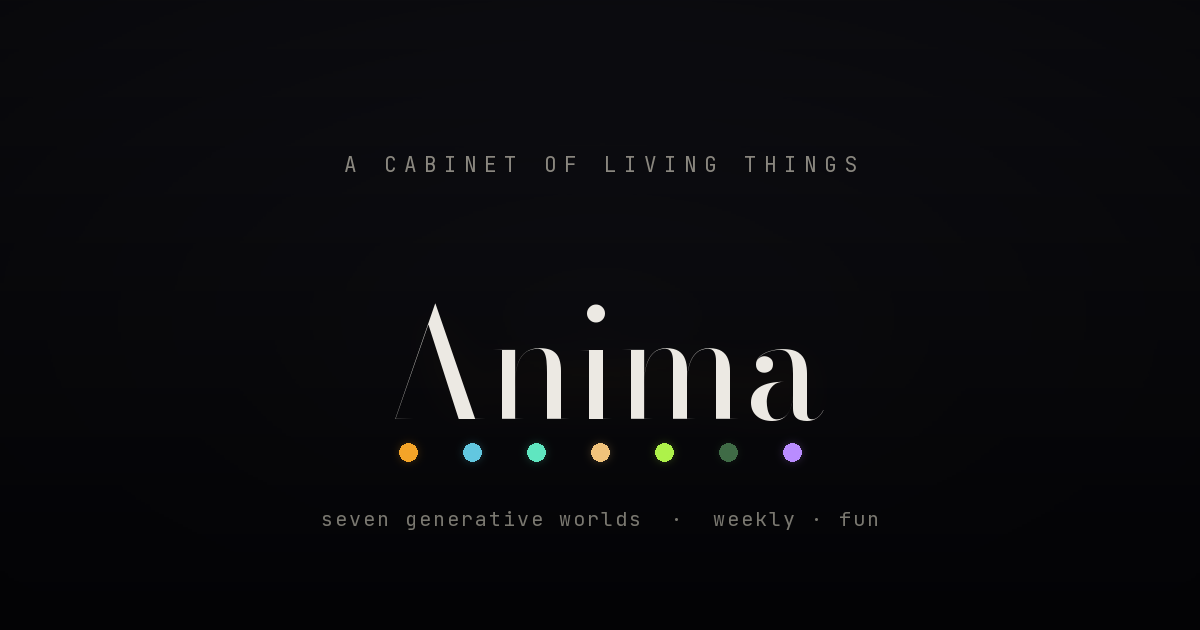
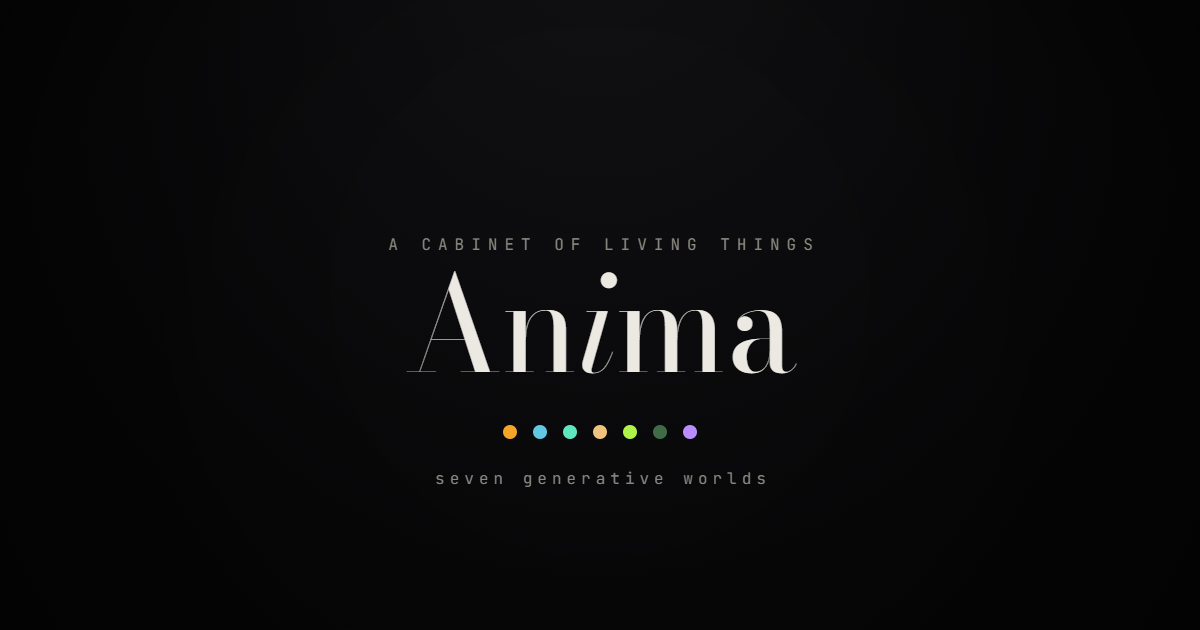
chore(brand): drop "weekly · fun" from the OG card and gallery kicker
- Regenerate og-image.png — same card (Bodoni Moda "Anima" with the
  styled italic i, the seven world-accent dots, "A CABINET OF LIVING
  THINGS"), but the subtitle is now "seven generative worlds" instead of
  "… · weekly · fun". Re-rendered at 1200×630, saved as optimised RGB
  (353KB → 90KB).
- Add tools/og-image.html — the reproducible canvas source for the card
  (the previous PNG had no source).
- Gallery kicker "weekly · fun · mmxxvi" → "anima · mmxxvi".

diff --git a/tools/og-image.html b/tools/og-image.html
@@ -1,0 +1,107 @@
+<!doctype html>
+<html lang="en">
+<head>
+<meta charset="utf-8" />
+<title>ANIMA — OG image generator (1200×630)</title>
+<!-- Reproducible source for /og-image.png. Open over a local server and
+     click "download" (or read window.__png). Re-render after rebrands. -->
+<link rel="stylesheet" href="../fonts/anima-fonts.css" />
+<style>
+  html,body{margin:0;background:#222;color:#ccc;font-family:system-ui,sans-serif;}
+  #c{display:block;margin:20px auto;box-shadow:0 10px 40px rgba(0,0,0,.5);}
+  .bar{text-align:center;padding:10px;}
+  button{font:inherit;padding:8px 16px;cursor:pointer;}
+</style>
+</head>
+<body>
+<canvas id="c" width="1200" height="630"></canvas>
+<div class="bar"><button id="dl">download og-image.png</button></div>
+<script>
+const W = 1200, H = 630, cx = W / 2;
+const c = document.getElementById("c");
+const g = c.getContext("2d");
+const DIDONE = "'Bodoni Moda', Georgia, serif";
+const MONO = "'JetBrains Mono', ui-monospace, monospace";
+// world accent colours, in cabinet order (primordia … animalcula)
+const ACCENTS = ["#f4a428", "#62c7e0", "#5fe6c0", "#f0c27b", "#aef24a", "#3f6b46", "#b98cff"];
+
+async function draw() {
+  await Promise.all([
+    document.fonts.load(`400 130px ${DIDONE}`),
+    document.fonts.load(`italic 400 130px ${DIDONE}`),
+    document.fonts.load(`400 16px ${MONO}`),
+  ]);
+  await document.fonts.ready;
+
+  // background — radial wash, matching the gallery
+  const bg = g.createRadialGradient(cx, -80, 80, cx, 200, 900);
+  bg.addColorStop(0, "#101013");
+  bg.addColorStop(0.55, "#070708");
+  bg.addColorStop(1, "#040405");
+  g.fillStyle = bg;
+  g.fillRect(0, 0, W, H);
+  // vignette
+  const vig = g.createRadialGradient(cx, H * 0.44, 220, cx, H * 0.44, 780);
+  vig.addColorStop(0, "rgba(0,0,0,0)");
+  vig.addColorStop(1, "rgba(0,0,0,0.55)");
+  g.fillStyle = vig;
+  g.fillRect(0, 0, W, H);
+
+  g.textAlign = "center";
+  g.textBaseline = "alphabetic";
+
+  // eyebrow
+  g.fillStyle = "#8a877f";
+  g.font = `400 16px ${MONO}`;
+  g.letterSpacing = "7px";
+  g.fillText("A CABINET OF LIVING THINGS", cx + 4, 250);
+  g.letterSpacing = "0px";
+
+  // wordmark — "An" + italic "i" + "ma", drawn as segments to keep the styled i
+  const wy = 372;
+  const roman = `400 132px ${DIDONE}`;
+  const ital = `italic 400 132px ${DIDONE}`;
+  g.fillStyle = "#ece9e3";
+  g.textAlign = "left";
+  g.font = roman; const wA = g.measureText("An").width;
+  g.font = ital;  const wI = g.measureText("i").width;
+  g.font = roman; const wB = g.measureText("ma").width;
+  let px = cx - (wA + wI + wB) / 2;
+  g.font = roman; g.fillText("An", px, wy); px += wA;
+  g.font = ital;  g.fillText("i", px, wy);  px += wI;
+  g.font = roman; g.fillText("ma", px, wy);
+  g.textAlign = "center";
+
+  // seven world dots
+  const dy = 432, r = 7, gap = 30;
+  let dx = cx - ((ACCENTS.length - 1) * gap) / 2;
+  for (const col of ACCENTS) {
+    g.beginPath();
+    g.arc(dx, dy, r, 0, Math.PI * 2);
+    g.fillStyle = col;
+    g.fill();
+    dx += gap;
+  }
+
+  // subtitle
+  g.fillStyle = "#8a877f";
+  g.font = `400 16px ${MONO}`;
+  g.letterSpacing = "5px";
+  g.fillText("seven generative worlds", cx + 3, 484);
+  g.letterSpacing = "0px";
+
+  window.__png = c.toDataURL("image/png");
+  window.__done = true;
+}
+
+document.getElementById("dl").onclick = () => {
+  const a = document.createElement("a");
+  a.download = "og-image.png";
+  a.href = window.__png;
+  a.click();
+};
+
+draw();
+</script>
+</body>
+</html>

diff --git a/index.html b/index.html
@@ -111,7 +111,7 @@
   <div class="wrap">
     <header>
       <div class="brand">
-        <div class="kick">weekly · fun · mmxxvi</div>
+        <div class="kick">anima · mmxxvi</div>
         <h1>An<i>i</i>ma</h1>
       </div>
       <div class="meta">